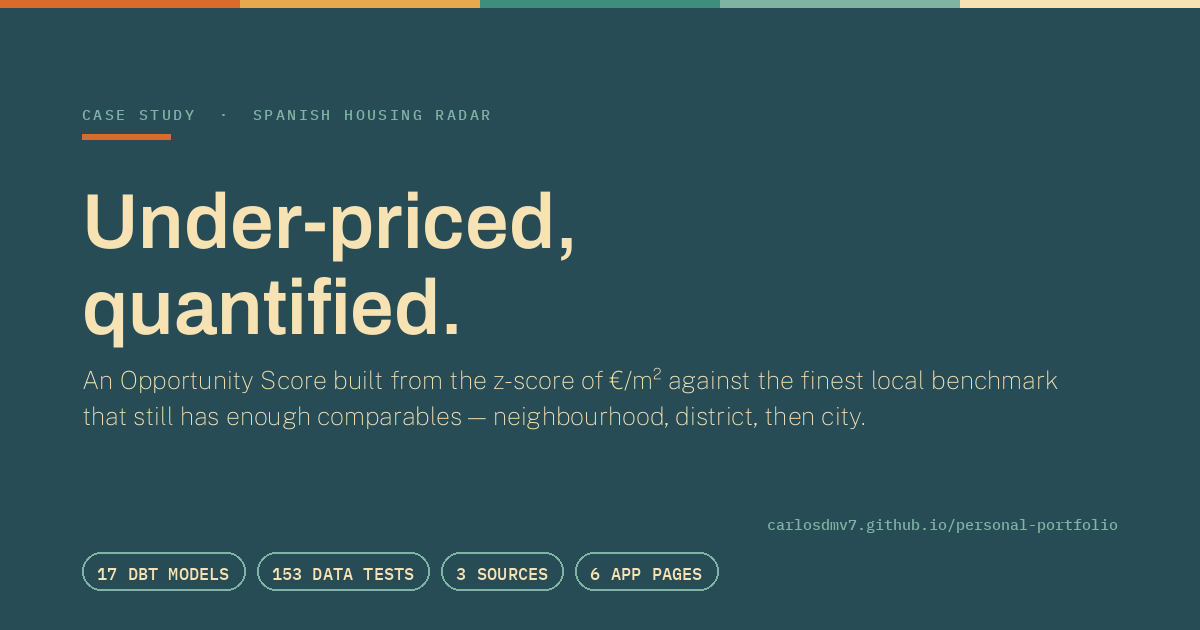
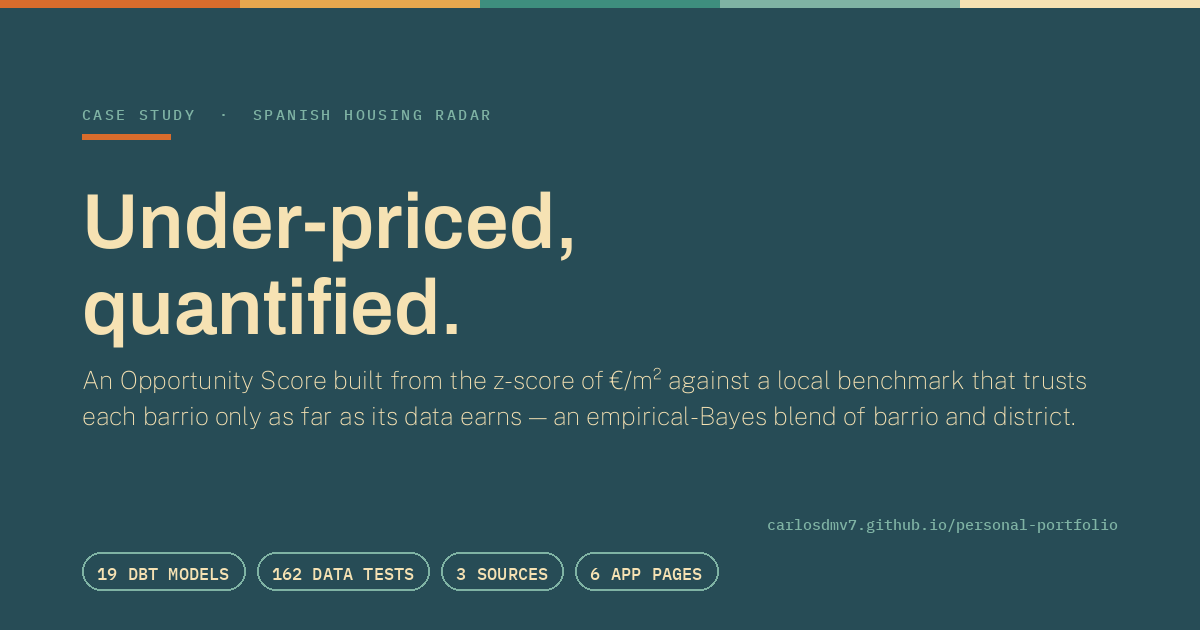
docs(housing-radar): empirical-Bayes benchmark, data screen, new counts
The case study described the fixed 8-comparable cut-off, 61% barrio
grain and seven cities holding an old snapshot; none of it is true
since spanish-housing-radar #42–#46. Rewrites the method decision and
code excerpt for the empirical-Bayes barrio weight, adds the
implausible/stale screen, updates the honest status (València only,
newest-first scraping, the full-refresh guard) and the counts: 19 dbt
models, 162 data tests. The og:image is regenerated with them.

Changed region(s): [[0.0617, 0.573, 0.8942, 0.6937]]

diff --git a/projects/spanish-housing-radar/index.html b/projects/spanish-housing-radar/index.html
@@ -4,22 +4,22 @@
     <meta charset="UTF-8">
     <meta name="viewport" content="width=device-width, initial-scale=1.0">
     <title>Spanish Housing Radar — an Opportunity Score with a hierarchical benchmark · Carlos De Manuel</title>
-    <meta name="description" content="Case study: an analytics pipeline that scores Spanish property listings against the finest local €/m² benchmark that still has enough comparables — neighbourhood, district, then city. dbt medallion on MotherDuck, Prefect, Streamlit, with published dbt docs.">
+    <meta name="description" content="Case study: an analytics pipeline that scores Spanish property listings against a local €/m² benchmark that trusts each barrio only as far as its data earns — an empirical-Bayes blend of barrio and district. dbt medallion on MotherDuck, Prefect, Streamlit, with published dbt docs.">
     <meta name="author" content="Carlos De Manuel Vicente">
     <link rel="canonical" href="https://carlosdmv7.github.io/personal-portfolio/projects/spanish-housing-radar/">
 
     <!-- Open Graph / social preview -->
     <meta property="og:type" content="article">
     <meta property="og:title" content="Under-priced, quantified — Spanish Housing Radar">
-    <meta property="og:description" content="An Opportunity Score built from the z-score of €/m² against the finest local benchmark that still has enough comparables — neighbourhood, district, then city.">
+    <meta property="og:description" content="An Opportunity Score built from the z-score of €/m² against a local benchmark that trusts each barrio only as far as its data earns.">
     <meta property="og:url" content="https://carlosdmv7.github.io/personal-portfolio/projects/spanish-housing-radar/">
     <meta property="og:image" content="https://carlosdmv7.github.io/personal-portfolio/images/og-spanish-housing-radar.png">
     <meta property="og:image:width" content="1200">
     <meta property="og:image:height" content="630">
-    <meta property="og:image:alt" content="Case study card: “Under-priced, quantified.” — 17 dbt models, 153 data tests, 3 sources, 6 app pages.">
+    <meta property="og:image:alt" content="Case study card: “Under-priced, quantified.” — 19 dbt models, 162 data tests, 3 sources, 6 app pages.">
     <meta name="twitter:card" content="summary_large_image">
     <meta name="twitter:title" content="Under-priced, quantified — Spanish Housing Radar">
-    <meta name="twitter:description" content="A hierarchical benchmark that falls back neighbourhood → district → city until it has enough comparables, and flags low-confidence scores instead of hiding them.">
+    <meta name="twitter:description" content="A benchmark that blends barrio and district by an empirical-Bayes weight estimated on every build, and sets implausible listings aside in the open.">
     <meta name="twitter:image" content="https://carlosdmv7.github.io/personal-portfolio/images/og-spanish-housing-radar.png">
 
     <link rel="icon" type="image/svg+xml" href="../../images/favicon.svg">
@@ -117,7 +117,7 @@
                             </div>
                             <div class="fresh-cell">
                                 <dt>dbt tests passing</dt>
-                                <dd data-fresh="dbt_tests">153 / 153</dd>
+                                <dd data-fresh="dbt_tests">162 / 162</dd>
                             </div>
                             <div class="fresh-cell">
                                 <dt>last CI run</dt>
@@ -181,14 +181,15 @@
                                     </div>
                                 </div>
                             </div>
-                            <p class="arch-note">Streamlit · Altair · pydeck maps · dbt Core 1.9 · 17 models, 153 data tests, 3 sources</p>
+                            <p class="arch-note">Streamlit · Altair · pydeck maps · dbt Core 1.9 · 19 models, 162 data tests, 3 sources</p>
                         </div>
                     </div>
 
                     <div class="case-block">
                         <h2 class="block-label">Key decisions &amp; why</h2>
                         <ul class="decision-list">
-                            <li><strong>A hierarchical benchmark, and the grain is a column.</strong> The score is a z-score of €/m², but a listing needs enough comparables for that to mean anything. So the model builds three benchmark grains and picks the <strong>finest one with at least 8 comparables</strong> — neighbourhood → district → city — always within the same operation and property type. <code>benchmark_level</code> records which grain actually scored each listing, and the app shows it ("scored vs city"). Rows that fall back to a thin city grain are flagged <code>low_confidence</code> rather than hidden.</li>
+                            <li><strong>A barrio is trusted as far as its data earns.</strong> The score is a z-score of €/m² against a local benchmark, always within the same operation and property type. It used to switch at a fixed cut-off — 8 listings and the barrio median counted in full, 7 and not at all. Measured, that was wrong: listings vary inside a barrio far more than barrios differ inside a district, so a barrio of 8 deserves about 57% weight. The benchmark now starts from the district and the barrio pulls it by an <strong>empirical-Bayes weight</strong>, n / (n + k), with k estimated in SQL on every build. For rents the data showed no barrio effect at all, so rents are scored against their district — and the app says so. <code>benchmark_level</code> and <code>barrio_weight</code> record what each score was measured against.</li>
+                            <li><strong>Implausible and stale listings set aside, in the open.</strong> A one-bedroom rent listed at 707 m² — €1.84/m², a typo for 70 — was once the top "great deal", and it widened its barrio's spread for every other rent there. Listings under a quarter of, or over four times, their city's median €/m² are now kept out of every benchmark, as are listings unseen for two months; the app lists what was removed and why.</li>
                             <li><strong>Neutral, not extreme, when dispersion is zero.</strong> A benchmark built from a single comparable has a standard deviation of 0 or NULL, which would divide to infinity and snap the score to ±3. Coalescing that case to 0 keeps a thin benchmark from manufacturing a fake bargain — a bug that would have looked exactly like a great find.</li>
                             <li><strong>Idempotent upserts on ingest.</strong> Listings reappear across runs. Upserting on the natural key <code>(source_name, source_id)</code> means re-running a flow never creates duplicates, which keeps the benchmarks honest and makes the pipeline safe to retry.</li>
                             <li><strong>Search-card scraping over detail-page scraping.</strong> A search page costs a flat 25 Scrapfly credits and returns ~30 listings; a detail page costs 25–29 and returns one — ~30× cheaper per listing. The trade-off is no per-listing coordinates. For a benchmark engine, breadth of comparables matters more than per-listing depth.</li>
@@ -196,28 +197,25 @@
                         </ul>
                         <div class="code">
                             <div class="code-head"><span class="dot"></span><span class="dot"></span><span class="dot"></span>&nbsp;3_gold/fct_listings_scored.sql</div>
-                            <pre><code><span class="c">-- pick the FINEST benchmark grain with enough comparables</span>
-<span class="k">case</span>
-    <span class="k">when</span> nb.n &gt;= {{ min_comps }} <span class="k">then</span> <span class="f">'neighbourhood'</span>
-    <span class="k">when</span> di.n &gt;= {{ min_comps }} <span class="k">then</span> <span class="f">'district'</span>
-    <span class="k">else</span> <span class="f">'city'</span>
-<span class="k">end</span> <span class="k">as</span> benchmark_level,
+                            <pre><code><span class="c">-- how far to trust a barrio: within- over between-barrio variance</span>
+<span class="k">case when</span> n_barrios &gt;= {{ min_barrios }} <span class="k">and</span> between_var &gt; 0
+     <span class="k">then</span> within_var / between_var <span class="k">end as</span> shrinkage_k,
+<span class="c">-- the barrio pulls its district's median by n / (n + k)</span>
+barrio_weight * barrio_median_ppsqm
+    + (1 - barrio_weight) * parent_median_ppsqm <span class="k">as</span> benchmark_median_ppsqm,
 <span class="c">-- ...then a clamped z-score, neutral when dispersion is zero</span>
 <span class="f">round</span>(<span class="f">greatest</span>(-3.0, <span class="f">least</span>(3.0,
     <span class="f">coalesce</span>((price_per_sqm - benchmark_median_ppsqm)
              / <span class="f">nullif</span>(benchmark_stddev_ppsqm, 0), 0)
-)), 3) <span class="k">as</span> ppsqm_z_score
-<span class="c">-- score = 50 centred, clamped 0-100</span>
-<span class="f">round</span>(<span class="f">greatest</span>(0, <span class="f">least</span>(100, 50 - ppsqm_z_score * (50.0 / 3.0))), 1)
-    <span class="k">as</span> opportunity_score</code></pre>
+)), 3) <span class="k">as</span> ppsqm_z_score</code></pre>
                         </div>
                     </div>
 
                     <div class="case-block">
                         <h2 class="block-label">Results</h2>
                         <div class="results-grid">
-                            <div class="result"><div class="result-num">17</div><span class="result-label">dbt models across bronze / silver / gold</span></div>
-                            <div class="result"><div class="result-num">153</div><span class="result-label">dbt data tests</span></div>
+                            <div class="result"><div class="result-num">19</div><span class="result-label">dbt models across bronze / silver / gold</span></div>
+                            <div class="result"><div class="result-num">162</div><span class="result-label">dbt data tests</span></div>
                             <div class="result"><div class="result-num">3</div><span class="result-label">Sources (Idealista, INE price index, INE household income)</span></div>
                             <div class="result"><div class="result-num">6</div><span class="result-label">Streamlit analysis pages</span></div>
                         </div>
@@ -226,7 +224,7 @@
 
                     <div class="case-block">
                         <h2 class="block-label">Honest status</h2>
-                        <p class="honest-note">listing scraping runs every Monday for <strong>València</strong>, sale and rent, inside Scrapfly's free monthly credits — depth in one city rather than breadth across eight. There, <strong>61%</strong> of listings are scored against their own barrio; the seven other cities hold one older snapshot and mostly fall back to city grain, which the app says per listing. Two real bugs were found by the pipeline's own checks rather than by a user: a data-currency test caught the <strong>INE price index</strong> frozen on a table INE had rebased (and every quarter stored one early), and a regression test caught the buy-vs-rent comparison charging closing costs twice. <strong>What I'd do differently:</strong> start the weekly scrape on day one so neighbourhood-level scores are the default from the start, and switch the gold models to <strong>incremental</strong> materializations as volume grows.</p>
+                        <p class="honest-note">listing scraping runs every Monday for <strong>València</strong>, sale and rent, newest listings first, inside Scrapfly's free monthly credits — depth in one city rather than breadth. A one-off snapshot of seven other cities stays in the warehouse history but has aged out of scoring. About <strong>73%</strong> of sale listings are scored mostly on their own barrio. Real bugs were found by the pipeline's own checks rather than by a user: a data-currency test caught the <strong>INE price index</strong> frozen on a table INE had rebased (and every quarter stored one early), a regression test caught the buy-vs-rent comparison charging closing costs twice, and a rebuild into the CI schema showed that a full refresh would have wiped the snapshot history — now guarded. <strong>What I'd do differently:</strong> measure the benchmark's trust in a barrio from day one instead of picking a cut-off, and start the weekly scrape on day one.</p>
                     </div>
 
                     </div>

diff --git a/index.html b/index.html
@@ -146,7 +146,7 @@
                             </div>
                             <div class="fresh-cell">
                                 <dt>dbt tests passing</dt>
-                                <dd data-fresh="dbt_tests">153 / 153</dd>
+                                <dd data-fresh="dbt_tests">162 / 162</dd>
                             </div>
                             <div class="fresh-cell">
                                 <dt>last CI run</dt>
@@ -342,8 +342,8 @@
                             (€/m² vs. neighborhood benchmarks), and a Streamlit app surfaces the deals.
                         </p>
                         <div class="project-impact">
-                            <div class="impact-stat"><div class="impact-num">17</div><span class="impact-label">dbt models</span></div>
-                            <div class="impact-stat"><div class="impact-num">153</div><span class="impact-label">dbt data tests</span></div>
+                            <div class="impact-stat"><div class="impact-num">19</div><span class="impact-label">dbt models</span></div>
+                            <div class="impact-stat"><div class="impact-num">162</div><span class="impact-label">dbt data tests</span></div>
                             <div class="impact-stat"><div class="impact-num">6</div><span class="impact-label">Streamlit pages</span></div>
                         </div>
                         <div class="project-links">

diff --git a/tools/make-og-images.py b/tools/make-og-images.py
@@ -50,10 +50,10 @@ CARDS = {
     "og-spanish-housing-radar": {
         "eyebrow": "CASE STUDY  ·  SPANISH HOUSING RADAR",
         "headline": "Under-priced,\nquantified.",
-        "sub": "An Opportunity Score built from the z-score of €/m² against the finest "
-               "local benchmark that still has enough comparables — neighbourhood, "
-               "district, then city.",
-        "chips": ["17 DBT MODELS", "153 DATA TESTS", "3 SOURCES", "6 APP PAGES"],
+        "sub": "An Opportunity Score built from the z-score of €/m² against a local "
+               "benchmark that trusts each barrio only as far as its data earns — an "
+               "empirical-Bayes blend of barrio and district.",
+        "chips": ["19 DBT MODELS", "162 DATA TESTS", "3 SOURCES", "6 APP PAGES"],
     },
 }
 

diff --git a/README.md b/README.md
@@ -36,8 +36,8 @@ Current values (verified 19 Sep 2026; Spanish Housing Radar re-verified 25 Sep 2
 
 | | Job Market Intelligence | Spanish Housing Radar |
 |---|---|---|
-| dbt models | 9 (+1 seed) | 17 (+3 seeds) |
-| dbt data tests | 53 | 153 |
+| dbt models | 9 (+1 seed) | 19 (+3 seeds) |
+| dbt data tests | 53 | 162 |
 | sources | 5 job-board APIs | 3 (Idealista, INE price index, INE income) |
 | app pages | 7 Streamlit pages | 6 Streamlit pages |
 | other | 12,797 IND recognised sponsors | — |
